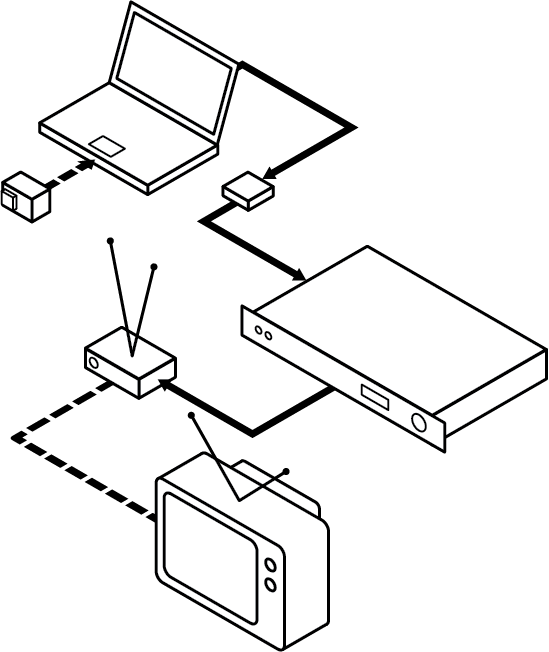
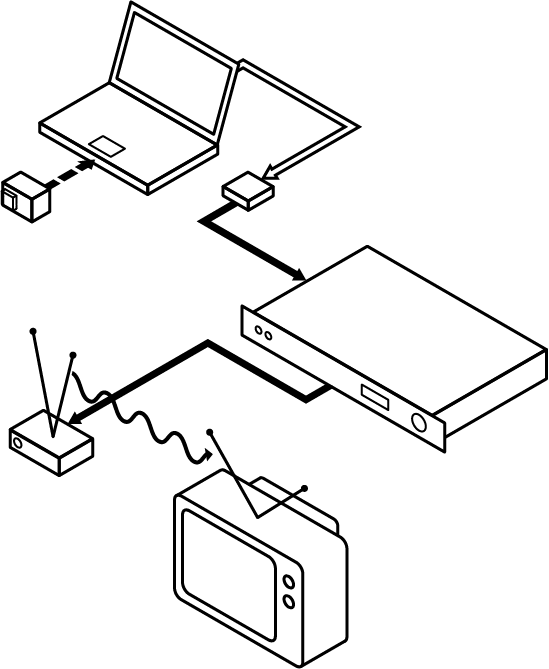
Adding assets for WGBH page.

Changed region(s): [[0.0, 0.0307, 1.0, 1.0], [0.1858, 0.3681, 0.2168, 0.4294], [0.2477, 0.0, 0.2787, 0.0307]]

diff --git a/_projects/2018-10-20-alumni.md b/_projects/2018-10-20-alumni.md
@@ -7,20 +7,29 @@ summary: "Three TVs, six channels, and an old yellow couch"
 **_Archives Over the Air_**
 ------
 
+<div class="center-image" style="position: relative; padding-top: 56.25%;">
+    <!-- From https://jameshfisher.com/2017/08/30/how-do-i-make-a-full-width-iframe.html -->
+    <!-- TODO: break this out into styles for reuse -->
+    <iframe style="position: absolute; top: 0; left: 0; height: 100%; width: 100%;" src="https://www.youtube.com/embed/2Cq8NwQ-qN4?rel=0&amp;controls=0" frameborder="0" allow="accelerometer; autoplay; encrypted-media; gyroscope; picture-in-picture" allowfullscreen></iframe>
+</div>
+
 ### Origins
 
 As part of our ongoing collaboration with the WGBH Archives, we set out to create a "test drive" of our low-power analog broadcast system displaying WGBH archival content. The annual WGBH Alumni event was the perfect occasion for such a test, bringing in the people who were very familiar with the content we were broadcasting - since they'd produced it!
 
 We wanted to do a one-day run to see how the exhibit functioned as a tangible installation. How would people engage with it? What questions and interactions would it spark? 
 
+![Living Room](/assets/LivingRoomAlt.png){: .center-image}
+
 ### Making it Happen
 
 For the physical exhibit design, we aimed to create an immersive atmospheric that felt true to the original contexts in which the content was originally displayed - so, we decided to recreate an entire 70's-style living room. After renting out furniture, we set up the space as a self-contained living room existing within the broader event. Also essential to our exhibit design was signage. A takeaway from previous testing revealed that we needed tangible artifacts to guide people through the elements of the exhibit, so signage was a must; here, we framed it as a "channel guide" providing context and background for what we were doing, as well as some basic info on what was being broadcast.
 
-![Living Room](/assets/LivingRoomAlt.png){: .center-image}
 ![Living Room](/assets/LivingRoomOccupied.png){: .center-image}
 
 ### Making it Work
+
+![](/assets/wgbh-diagram.png){: .center-image}
 
 Our broadcast system, under ongoing development, employs off-the-shelf broadcast equipment. Analog signals from a rack of playback devices are modulated to the correct frequencies, then broadcast over the air to our antique TVs. 
 
@@ -32,7 +41,14 @@ Our broadcast system, under ongoing development, employs off-the-shelf broadcast
 **Modulators:** These units convert the analog signal from the DVD players into one that is *frequency modulated.*
 
 ![](/assets/Antenna.png){: .center-image}
-**Antenna:** For this case, we chose a stock, off-the-shelf unpowered TV antenna. In RF signals, a broadcast antenna and receiver antenna can fulfill the same purpose.
+**Antenna:** For this case, we chose a stock, off-the-shelf unpowered TV antenna. In RF signals, a broadcast antenna and receiver antenna can fulfill the same purpose - so, we were able to use a standard TV antenna to broadcast our signal.
+
+![](/assets/TV.png){: .center-image}
+**TVs:** To display our content, we used vintage TVs from the 70s-80s:
+
+* __A 1970's Sony Trinitron, Color__ 
+* __A 1980's Sears, Black & White__
+* __A 1980's RCA hand-held, Color__
 
 ![](/assets/Cable.png){: .center-image}
 
@@ -43,7 +59,9 @@ Our broadcast system, under ongoing development, employs off-the-shelf broadcast
 </div>
 
 
-At the event itself, we set up our full display, successfully broadcasting content to all six channels for the duration of the event. After a successful showing and great conversations with attendees, we found takeaways for our project moving forward.
+At the event itself, we set up our full display, successfully broadcasting content to all six channels for the duration of the event. After a successful showing and great conversations with attendees, we had a lot of ideas for improving our project moving forward.
 
 
 **Spurring dynamic engagement** - How do we encourage people to get up close and "play" with our exhibit (changing the channel, moving the antenna, etc.)? We found that attendees enjoyed seeing the content, but were less inclined to get up close to it. This may have been because of the way the furniture was arranged; nevertheless, an important element of our exhibit is that is must draw participants in. 
+
+**Consider audience context** - For this event, our audience was folks who'd worked at WGBH, so most were already very familiar with a lot of the content we were broadcasting. This is quite different from how it would be at an installation elsewhere, so the story we were telling was quite different, i.e. experiencing the history of the programs wasn't anything new to our audience. So, it's important for us to consider *what* about the content makes it engaging and interesting to our particular audience.

diff --git a/_projects/2018-09-22-balloon.md b/_projects/2018-09-22-balloon.md
@@ -4,9 +4,9 @@ title: The Balloon
 summary: "One balloon, one camera, and one black and white television"
 ---
 
-## Prototype 0.5: The Balloon
+**_A live broadcast from a different perspective_**
+------
 
-*A live broadcast with a different perspective*
 
 As a proof-of-concept for both our broadcast setup and our exhibit design, we set out to run our broadcaster with an unconventional input: a live, bird's-eye view of the "O," the center of Olin's campus.
 
